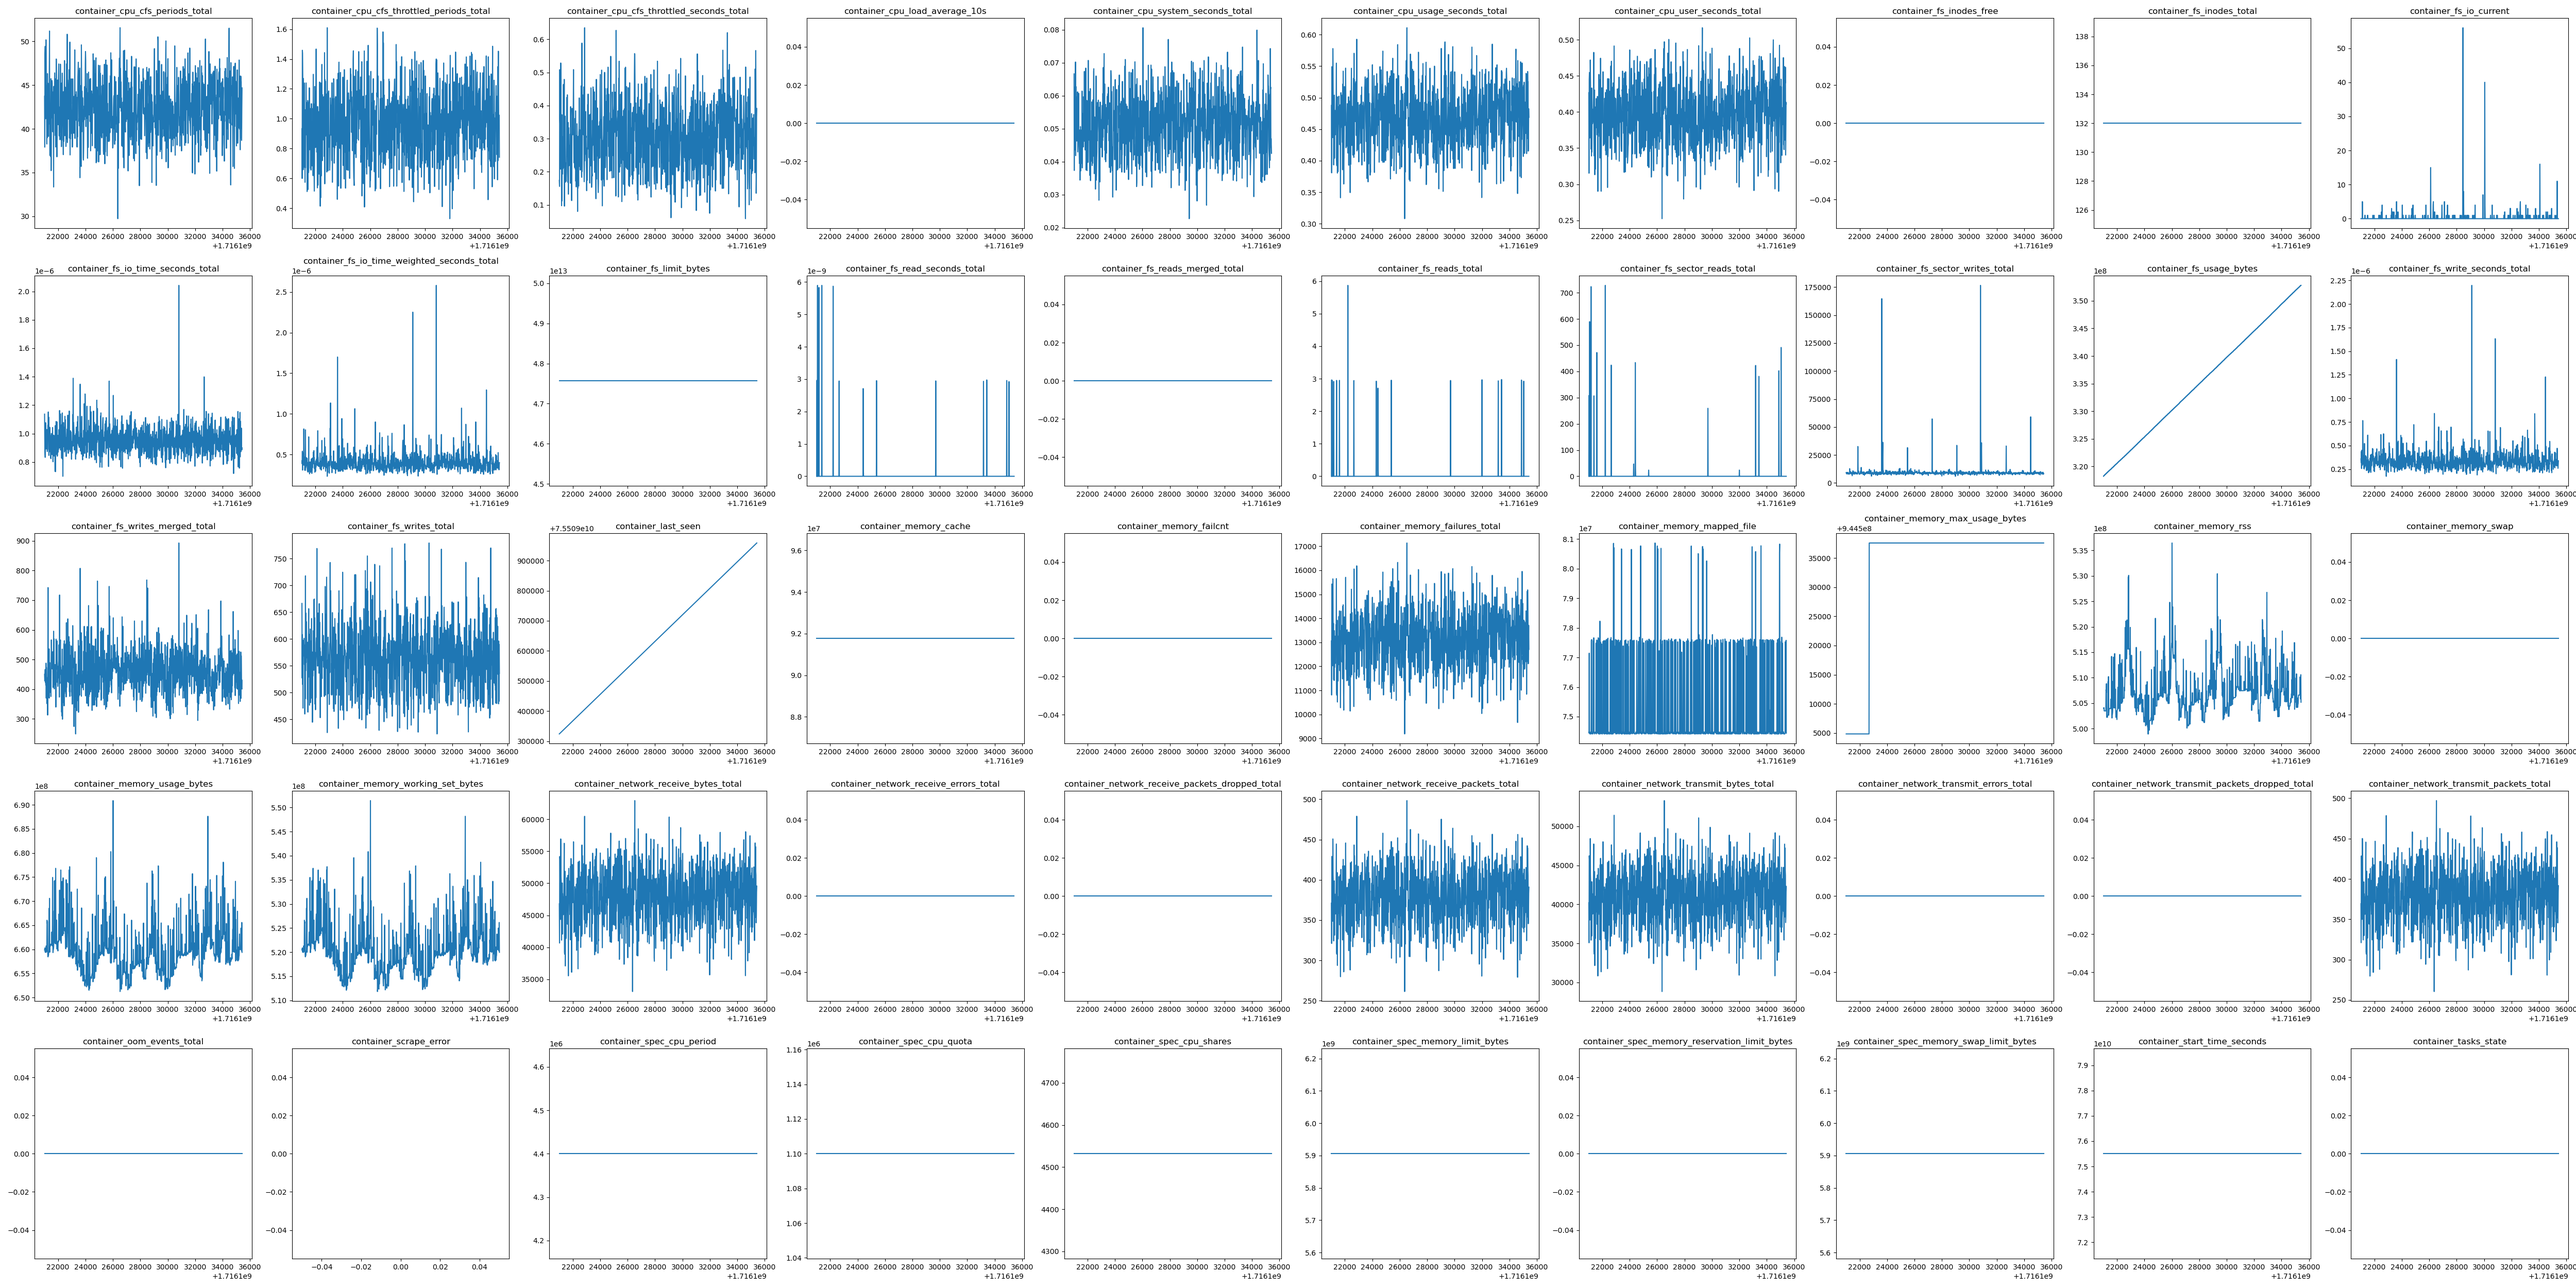
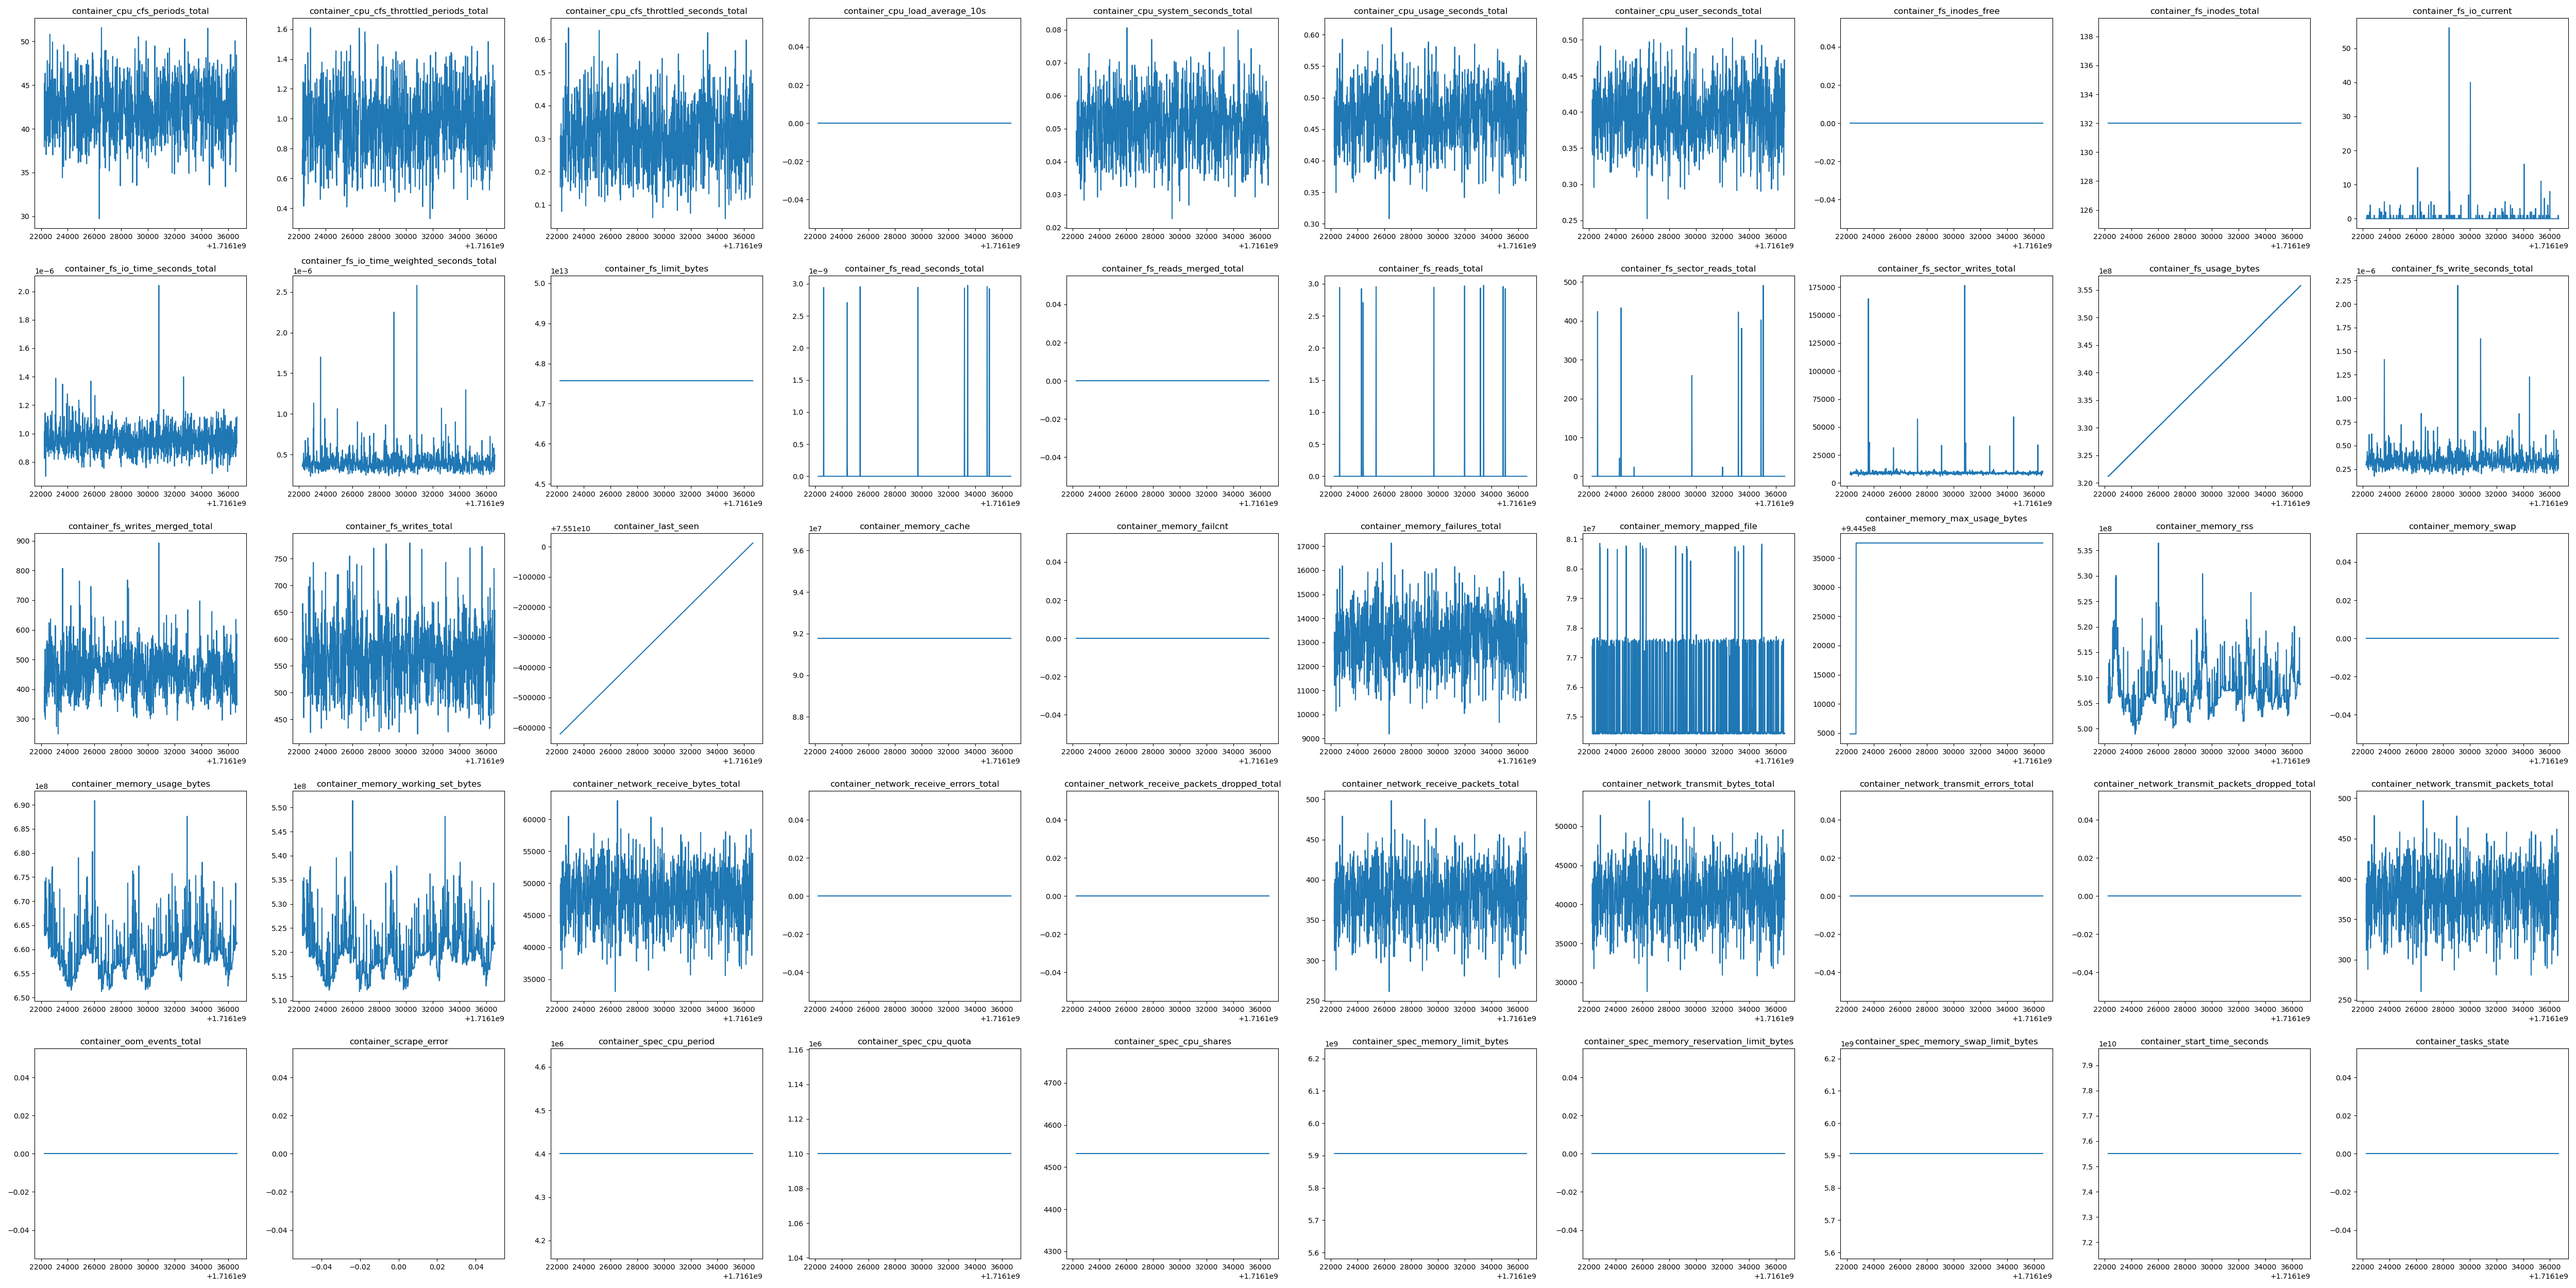
Split python file

diff --git a/12-metrics-selection-module/main.py b/12-metrics-selection-module/main.py
@@ -2,80 +2,8 @@ import requests
 import time    
 import json    
 import matplotlib.pyplot as plt    
-from IPython.display import display    
-from ipywidgets import widgets    
-    
-step = 15    
-num_columns = 10  # number of columns for the grid of charts  
-    
-def round_time_to_nearest_sec(t):      
-    # Round the time to the nearest step seconds      
-    return (t // step) * step    
-    
-now = time.time()    
-start = round_time_to_nearest_sec(now - 3600 * 4)      
-end = round_time_to_nearest_sec(now)      
-    
-# Load metrics from JSON file    
-with open('metrics.json') as f:    
-    metrics = json.load(f)    
-    
-# Function to get data for a specific metric    
-def get_metric_data(metric, metric_type):    
-    # Define the parameters for the query    
-    if metric_type == "counter":    
-        query = 'sum(rate({metric}{{container_label_io_kubernetes_pod_namespace="demo"}}[30s]))'.format(metric=metric)    
-    elif metric_type == "gauge":    
-        query = 'sum({metric}{{container_label_io_kubernetes_pod_namespace="demo"}})'.format(metric=metric)    
-    else:    
-        raise ValueError("Unsupported metric type: {}".format(metric_type))    
-    
-    params = {    
-        'query': query,      
-        'start': start,      
-        'end': end,      
-        'step': step  # define the interval of time (in seconds) between each data point    
-    }    
-    
-    # Send the GET request to the Prometheus API    
-    response = requests.get('http://localhost:9090/api/v1/query_range', params=params)    
-    data = response.json()    
-    
-    return data    
-    
-# Get data for all metrics    
-all_metrics_data = {}    
-  
-num_metrics = len(metrics)  
-num_rows = num_metrics // num_columns if num_metrics % num_columns == 0 else num_metrics // num_columns + 1  
-  
-fig, axs = plt.subplots(num_rows, num_columns, figsize=(num_columns * 5, num_rows * 5))  # 5 is the width and height of each subplot  
-    
-i = 0    
-for metric, metric_info in metrics.items():    
-    data = get_metric_data(metric, metric_info[0]["type"])    
-    all_metrics_data[metric] = data    
-    
-    # Draw chart for the metric    
-    if data['data']['result']:    
-        values = [float(x[1]) for x in data['data']['result'][0]['values']]    
-        timestamps = [float(x[0]) for x in data['data']['result'][0]['values']]    
-    else:    
-        # If there's no data, plot an empty graph    
-        values = []    
-        timestamps = []    
-    
-    row, col = divmod(i, num_columns)  
-    ax = axs[row, col]  
-    ax.plot(timestamps, values)    
-    ax.set_title(metric)  
-    i += 1  
-  
-# if number of metrics is not a multiple of num_columns, remove the extra subplots  
-if num_metrics % num_columns != 0:  
-    for j in range(num_metrics, num_rows * num_columns):  
-        fig.delaxes(axs.flatten()[j])  
-  
-plt.tight_layout()  
-plt.savefig('all_charts.png')    
-# plt.show()  
+from metrics import load_metrics, save_merics_chart
+
+all_metrics_data = load_metrics()
+
+save_merics_chart(all_metrics_data)

diff --git a/12-metrics-selection-module/metrics.py b/12-metrics-selection-module/metrics.py
@@ -1,0 +1,77 @@
+import requests    
+import time    
+import json    
+import matplotlib.pyplot as plt
+    
+# Function to get data for a specific metric    
+def fetch_metrics(metric, metric_type, start, end, step):    
+    # Define the parameters for the query    
+    if metric_type == "counter":    
+        query = 'sum(rate({metric}{{container_label_io_kubernetes_pod_namespace="demo"}}[30s]))'.format(metric=metric)    
+    elif metric_type == "gauge":    
+        query = 'sum({metric}{{container_label_io_kubernetes_pod_namespace="demo"}})'.format(metric=metric)    
+    else:    
+        raise ValueError("Unsupported metric type: {}".format(metric_type))    
+    
+    params = {    
+        'query': query,      
+        'start': start,      
+        'end': end,      
+        'step': step  # define the interval of time (in seconds) between each data point    
+    }    
+    
+    # Send the GET request to the Prometheus API    
+    response = requests.get('http://localhost:9090/api/v1/query_range', params=params)    
+    data = response.json()    
+    
+    return data    
+
+def load_metrics():
+    # Load metrics from JSON file    
+    with open('metrics.json') as f:    
+        metrics_json = json.load(f)  
+        
+    step = 15    
+    now = time.time()    
+    start = ((now - 3600 * 4) // step) * step    
+    end = (now // step) * step
+
+    # Get data for all metrics    
+    all_metrics_data = {}   
+    for metric, metric_info in metrics_json.items():    
+        data = fetch_metrics(metric, metric_info[0]["type"], start, end, step)    
+        all_metrics_data[metric] = data  
+
+    return all_metrics_data
+
+def save_merics_chart(metrics_data):
+    num_columns = 10  # number of columns for the grid of charts  
+    num_metrics = len(metrics_data)  
+    num_rows = num_metrics // num_columns if num_metrics % num_columns == 0 else num_metrics // num_columns + 1  
+    fig, axs = plt.subplots(num_rows, num_columns, figsize=(num_columns * 5, num_rows * 5))  # 5 is the width and height of each subplot  
+
+    i = 0
+    for metric, metric_info in metrics_data.items():    
+        # Draw chart for the metric    
+        if metric_info['data']['result']:    
+            values = [float(x[1]) for x in metric_info['data']['result'][0]['values']]    
+            timestamps = [float(x[0]) for x in metric_info['data']['result'][0]['values']]    
+        else:    
+            # If there's no data, plot an empty graph    
+            values = []    
+            timestamps = []    
+        
+        row, col = divmod(i, num_columns)  
+        ax = axs[row, col]  
+        ax.plot(timestamps, values)    
+        ax.set_title(metric)  
+        i += 1  
+  
+    # if number of metrics is not a multiple of num_columns, remove the extra subplots  
+    if num_metrics % num_columns != 0:  
+        for j in range(num_metrics, num_rows * num_columns):  
+            fig.delaxes(axs.flatten()[j])  
+    
+    plt.tight_layout()  
+    plt.savefig('all_charts.png')    
+    # plt.show()  
